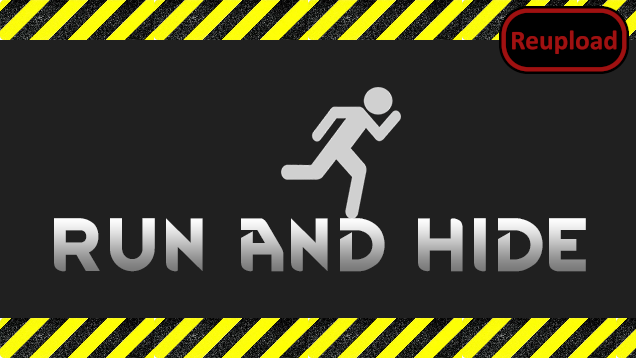
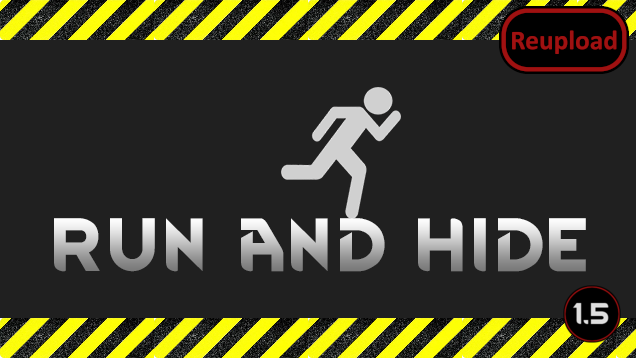
Mod updated for 1.5 and passed autotests

Changed region(s): [[0.8664, 0.7989, 0.9858, 0.9832]]

diff --git a/README.md b/README.md
@@ -28,11 +28,13 @@ Compatible with every mod and can be installed on existing saves.
 
 -  See if the the error persists if you just have this mod and its requirements active.
 -  If not, try adding your other mods until it happens again.
--  Post your error-log using https://steamcommunity.com/workshop/filedetails/?id=818773962]HugsLib and command Ctrl+F12
+-  Post your error-log using https://steamcommunity.com/workshop/filedetails/?id=818773962]HugsLib or the standalone https://steamcommunity.com/sharedfiles/filedetails/?id=2873415404]Uploader and command Ctrl+F12
 -  For best support, please use the Discord-channel for error-reporting.
 -  Do not report errors by making a discussion-thread, I get no notification of that.
 -  If you have the solution for a problem, please post it to the GitHub repository.
+-  Use https://github.com/RimSort/RimSort/releases/latest]RimSort to sort your mods
 
 
 
+https://steamcommunity.com/sharedfiles/filedetails/changelog/2022480344]![Image](https://img.shields.io/github/v/release/emipa606/RunAndHide?label=latest%20version&style=plastic&color=9f1111&labelColor=black)
 
